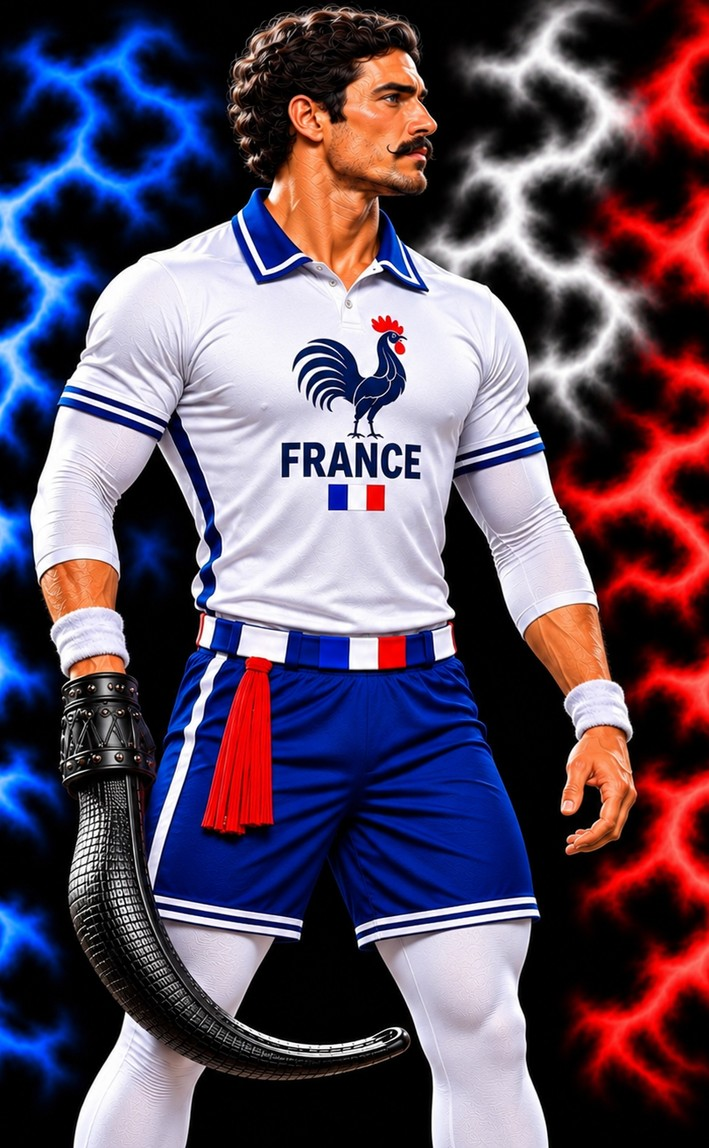
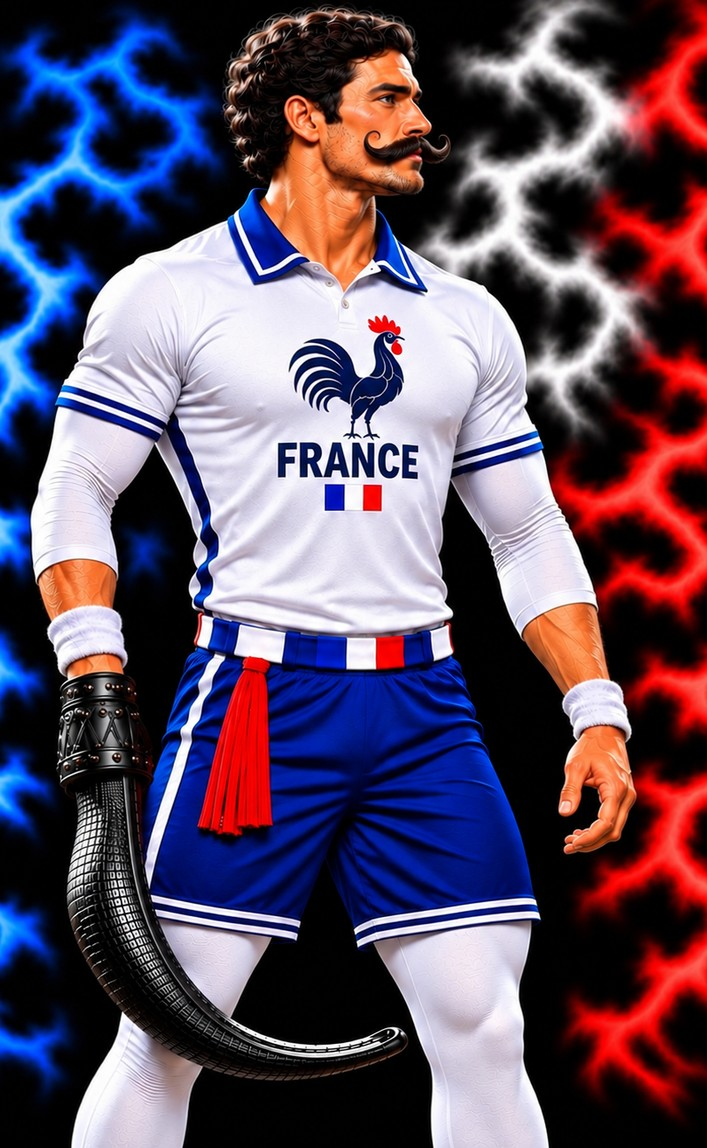
World Cup: new France men's player
Claude-Session: https://claude.ai/code/session_01RXYkimbn35SjoihCfai7fS

diff --git a/index.html b/index.html
@@ -18,7 +18,7 @@ img { max-width: 100%; }
 [hidden] { display: none !important; }
 </style>
 <script>
-window.FL_BUILD = "20261125233017";
+window.FL_BUILD = "20261126024632";
 window.FL_RELAY = "wss://relay-production-5e78c1a2.up.railway.app/ws";
 window.FL_STATS = "https://relay-production-5e78c1a2.up.railway.app/t";
 window.FL_FEEDBACK = "https://relay-production-5e78c1a2.up.railway.app/feedback";
@@ -2788,7 +2788,7 @@ window.FLFeedback = (function () {
   /* ---------- matchup poster (preview build only): a still court, a Tap to Play button, then the poster while the match loads ---------- */
   var POSTER = !!window.FL_POSTER;
   if (POSTER) document.body.classList.add('poster-on');
-  var POSTERS = { '7w': 'poster-7-w.jpg?v=16', '8w': 'poster-8-w.jpg?v=16', '9w': 'poster-9-w.jpg?v=16', '10w': 'poster-10-w.jpg?v=16', '11w': 'poster-11-w.jpg?v=16', '7m': 'poster-7-m.jpg?v=16', '8m': 'poster-8-m.jpg?v=16', '9m': 'poster-9-m.jpg?v=16', '10m': 'poster-10-m.jpg?v=16', '11m': 'poster-11-m.jpg?v=16', '0m': 'poster-0-m.jpg?v=16', '1m': 'poster-1-m.jpg?v=16', '2m': 'poster-2-m.jpg?v=16', '3m': 'poster-3-m.jpg?v=16', '4m': 'poster-4-m.jpg?v=16', '5m': 'poster-5-m.jpg?v=16', '0w': 'poster-0-w.jpg?v=16', '1w': 'poster-1-w.jpg?v=16', '2w': 'poster-2-w.jpg?v=16', '3w': 'poster-3-w.jpg?v=16', '4w': 'poster-4-w.jpg?v=16', '5w': 'poster-5-w.jpg?v=16', '6m': 'poster-6-m.jpg?v=16', '6w': 'poster-6-w.jpg?v=16' };   // roster index + m/w. Each half faces right; missing ones fall back to the team badge
+  var POSTERS = { '7w': 'poster-7-w.jpg?v=17', '8w': 'poster-8-w.jpg?v=17', '9w': 'poster-9-w.jpg?v=17', '10w': 'poster-10-w.jpg?v=17', '11w': 'poster-11-w.jpg?v=17', '7m': 'poster-7-m.jpg?v=17', '8m': 'poster-8-m.jpg?v=17', '9m': 'poster-9-m.jpg?v=17', '10m': 'poster-10-m.jpg?v=17', '11m': 'poster-11-m.jpg?v=17', '0m': 'poster-0-m.jpg?v=17', '1m': 'poster-1-m.jpg?v=17', '2m': 'poster-2-m.jpg?v=17', '3m': 'poster-3-m.jpg?v=17', '4m': 'poster-4-m.jpg?v=17', '5m': 'poster-5-m.jpg?v=17', '0w': 'poster-0-w.jpg?v=17', '1w': 'poster-1-w.jpg?v=17', '2w': 'poster-2-w.jpg?v=17', '3w': 'poster-3-w.jpg?v=17', '4w': 'poster-4-w.jpg?v=17', '5w': 'poster-5-w.jpg?v=17', '6m': 'poster-6-m.jpg?v=17', '6w': 'poster-6-w.jpg?v=17' };   // roster index + m/w. Each half faces right; missing ones fall back to the team badge
   function posterHalf(el, t, side) {                              // mixed: a man on the left, a woman on the right
     var r = ROSTER[t], wt = whoOf(side), g = wt === 'women' || (wt === 'mixed' && side) ? 'w' : 'm', src = POSTERS[t + g] || null;   // no picture for that side yet: its badge or flag
     el.innerHTML = ''; el.style.backgroundImage = '';
